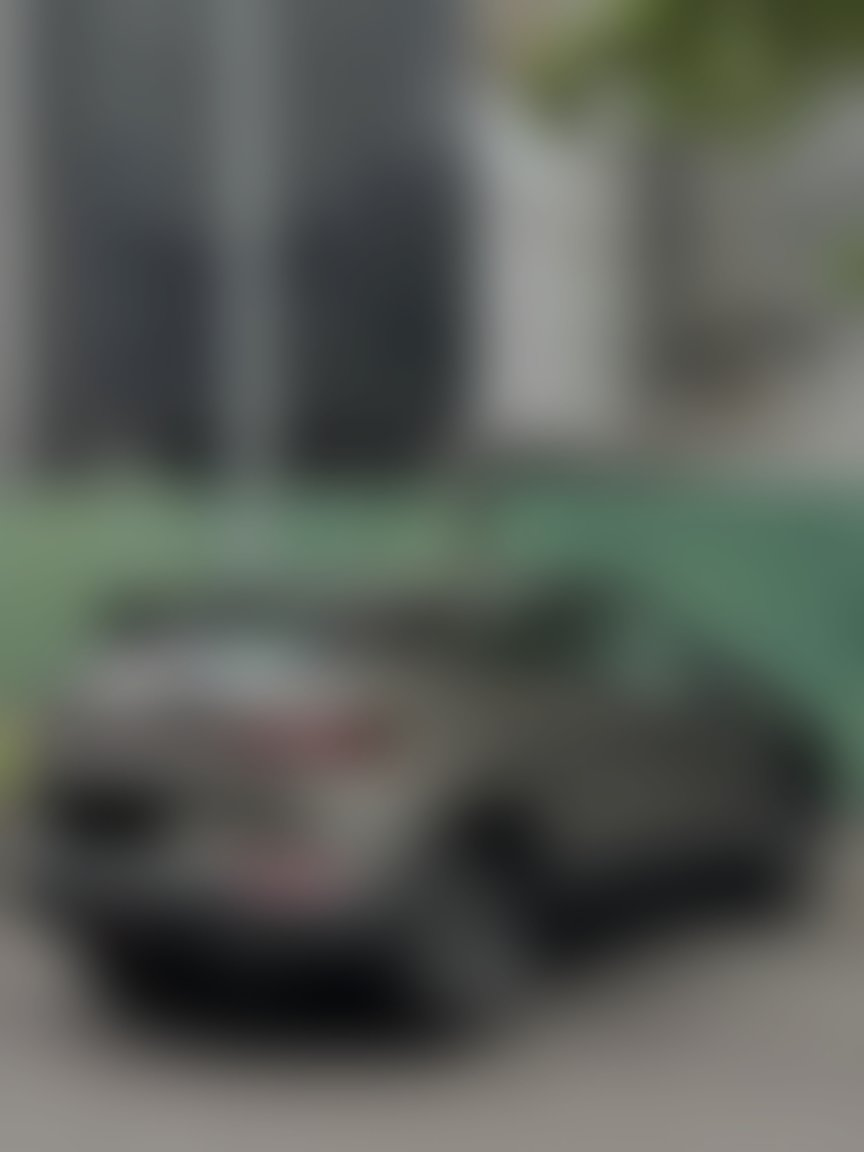
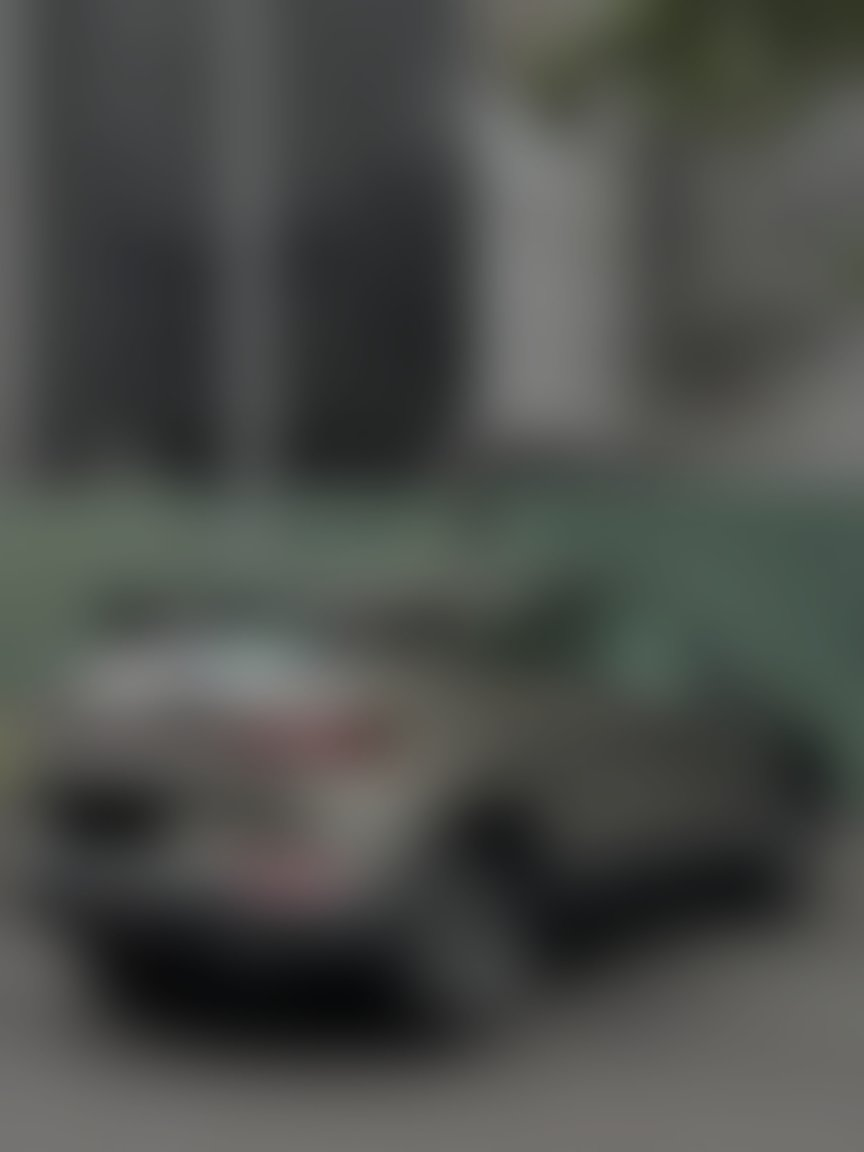
Pilihan soft_bg (kaburkan latar belakang gambar asal) dan latar showroom; X50 Jade Grey guna gambar asal
Claude-Session: https://claude.ai/code/session_012SdHq7PQ39aAs1VdyWCUGp

diff --git a/hyperframes/index.html b/hyperframes/index.html
@@ -116,6 +116,7 @@
       .cshadow { position: absolute; left: 40px; width: 920px; height: 80px;
                  background: radial-gradient(ellipse 50% 50% at 50% 50%, rgba(0,0,0,.75), rgba(0,0,0,0) 70%); }
       .sdim { position: absolute; inset: 0; background: #000; }
+      .ccontact { position: absolute; height: 36px; background: radial-gradient(ellipse 50% 50% at 50% 50%, rgba(0,0,0,.92), rgba(0,0,0,0) 75%); }
       .curl, .curr { position: absolute; top: 0; width: 541px; height: 1920px; background: linear-gradient(90deg, #07080b, #161922 85%, #232733); }
       .curl { left: 0; }
       .curr { right: 0; transform-origin: 100% 50%; background: linear-gradient(270deg, #07080b, #161922 85%, #232733); }
@@ -180,7 +181,7 @@
   </head>
   <body>
     <div id="root" data-composition-id="main" data-start="0" data-duration="80.593" data-width="1080" data-height="1920" data-fps="30" data-motion-blur="on">
-      <div id="s0" class="scene clip" data-start="0.000" data-duration="10.349" data-track-index="1" data-track-kind="graphics" style="z-index:10"><div id="s0cam" class="cam"><img id="s0bg" class="bg" src="assets/photos/bg_xg_03_depan34.jpg" alt="" /><div id="s0kb" class="kb"><img class="contain hi" src="assets/photos/xg_03_depan34.jpg" alt="" /></div><div id="s0stamp" class="stamp" data-layout-allow-occlusion style="top:600px;font-size:60px">WAJIB ADA DEPOSIT</div><div id="s0hnote" class="c2note hnote" data-layout-allow-occlusion style="top:770px"><b>Tiada deposit?</b><span>Tak perlu PM ya 🙏</span></div><div class="shade"></div><div class="heads"><div class="line hero"><span id="h0_0" class="pearl">SAMBUNG BAYAR</span></div><div class="line label"><span id="h0_1" class="silver">LEASE TO OWN</span></div><div class="line tag"><span id="h0_2" class="pearl">PROTON X50 EXECUTIVE</span></div></div></div></div>
+      <div id="s0" class="scene clip" data-start="0.000" data-duration="10.349" data-track-index="1" data-track-kind="graphics" style="z-index:10"><div id="s0cam" class="cam"><img id="s0bg" class="bg" src="assets/photos/bg_xg_03_depan34.jpg" alt="" /><div id="s0kb" class="kb"><img class="contain hi" src="assets/photos/xg_03_depan34.jpg" alt="" /></div><div id="s0stamp" class="stamp" data-layout-allow-occlusion style="top:560px;font-size:60px">WAJIB ADA DEPOSIT</div><div class="shade"></div><div class="heads"><div class="line hero"><span id="h0_0" class="pearl">SAMBUNG BAYAR</span></div><div class="line label"><span id="h0_1" class="silver">LEASE TO OWN</span></div><div class="line tag"><span id="h0_2" class="pearl">PROTON X50 EXECUTIVE</span></div></div></div></div>
       <div id="s1" class="scene clip" data-start="9.989" data-duration="8.316" data-track-index="2" data-track-kind="graphics" style="z-index:11"><div id="s1cam" class="cam"><img id="s1bg" class="bg" src="assets/photos/bg_xg_01_depan.jpg" alt="" /><div id="s1kb" class="kb"><img class="contain hi" src="assets/photos/xg_01_depan.jpg" alt="" /></div><div id="s1sw" class="sweep"></div><div class="shade"></div><div class="heads"><div class="line hero"><span id="h1_0" class="silver">X50 EXECUTIVE</span></div><div class="line label"><span id="h1_1" class="pearl">FACELIFT 2026</span></div><div class="line tag"><span id="h1_2" class="pearl">KOYAK PLASTIK</span></div></div></div></div>
       <div id="s2" class="scene clip" data-start="18.305" data-duration="5.265" data-track-index="1" data-track-kind="graphics" style="z-index:12"><div id="s2cam" class="cam"><img id="s2bg" class="bg" src="assets/photos/bg_xg_02_belakang34.jpg" alt="" /><div id="s2kb" class="kb"><img class="contain hi" src="assets/photos/xg_02_belakang34.jpg" alt="" /></div><div class="shade"></div><div class="heads"><div class="line label"><span id="h2_0" class="silver">DEPOSIT</span></div><div class="line price" style="margin:0 -100px"><span id="h2_1" class="red">RM13,000</span></div><div class="line tag"><span id="h2_2" class="pearl">BAWAH MARKET</span></div></div></div></div>
       <div id="s3" class="scene clip" data-start="23.210" data-duration="5.719" data-track-index="2" data-track-kind="graphics" style="z-index:13"><div id="s3cam" class="cam"><img id="s3bg" class="bg" src="assets/photos/bg_xg_04_belakang.jpg" alt="" /><div id="s3kb" class="kb"><img class="contain hi" src="assets/photos/xg_04_belakang.jpg" alt="" /></div><div class="shade"></div><div class="heads"><div class="line label"><span id="h3_0" class="silver">BULANAN</span></div><div class="line price"><span id="h3_1" class="red">RM1,300</span></div><div class="line tag"><span id="h3_2" class="pearl">LOAN 9 TAHUN</span></div></div></div></div>
@@ -291,7 +292,7 @@
               <div id="ct_meta" class="cmeta">Proton X50 Executive Facelift 2026</div>
             </div>
             <div id="ct_glint" class="glint"></div>
-          </div><div id="c2note" class="c2note"><b>WAJIB ADA DEPOSIT</b><span>Tiada deposit? Tak perlu PM ya 🙏</span></div>
+          </div>
         </div></div></div>
       <div id="captions" class="clip" data-start="0" data-duration="80.593" data-track-index="5" data-track-kind="captions" data-layout-allow-safe-zone style="z-index:40"><div id="c0" class="grp"><span id="c0p" class="pill"><span class="w ">Nak</span> <span class="w red">sambung</span> <span class="w red">bayar</span> <span class="w silver">Proton</span></span></div><div id="c1" class="grp"><span id="c1p" class="pill"><span class="w silver">X50</span> <span class="w silver">Executive,</span></span></div><div id="c2" class="grp"><span id="c2p" class="pill"><span class="w ">warna</span> <span class="w silver">Jade</span> <span class="w silver">Grey?</span></span></div><div id="c3" class="grp"><span id="c3p" class="pill"><span class="w ">Ingat</span> <span class="w ">ya,</span></span></div><div id="c4" class="grp"><span id="c4p" class="pill"><span class="w red">wajib</span> <span class="w red">ada</span> <span class="w red">deposit.</span></span></div><div id="c5" class="grp"><span id="c5p" class="pill"><span class="w ">Tiada</span> <span class="w ">deposit,</span></span></div><div id="c6" class="grp"><span id="c6p" class="pill"><span class="w ">tak</span> <span class="w ">perlu</span> <span class="w ">PM.</span></span></div><div id="c7" class="grp"><span id="c7p" class="pill"><span class="w silver">Proton</span> <span class="w silver">X50</span> <span class="w silver">Executive</span></span></div><div id="c8" class="grp"><span id="c8p" class="pill"><span class="w silver">Facelift,</span> <span class="w ">model</span> <span class="w red">2026.</span></span></div><div id="c9" class="grp"><span id="c9p" class="pill"><span class="w ">Kereta</span> <span class="w ">baru,</span></span></div><div id="c10" class="grp"><span id="c10p" class="pill"><span class="w ">jualan</span> <span class="w ">koyak</span> <span class="w ">plastik.</span></span></div><div id="c11" class="grp"><span id="c11p" class="pill"><span class="w red">Deposit?</span></span></div><div id="c12" class="grp"><span id="c12p" class="pill"><span class="w red">RM13,000</span> <span class="w ">sahaja.</span></span></div><div id="c13" class="grp"><span id="c13p" class="pill"><span class="w ">Ini</span> <span class="w red">bawah</span> <span class="w red">market.</span></span></div><div id="c14" class="grp"><span id="c14p" class="pill"><span class="w red">Bulanan</span> <span class="w ">pula,</span> <span class="w red">RM1,300.</span></span></div><div id="c15" class="grp"><span id="c15p" class="pill"><span class="w red">Loan</span> <span class="w red">9</span> <span class="w red">tahun.</span></span></div><div id="c16" class="grp"><span id="c16p" class="pill"><span class="w ">Lebih</span> <span class="w ">menarik,</span></span></div><div id="c17" class="grp"><span id="c17p" class="pill"><span class="w silver">agreement</span> <span class="w red">direct</span> <span class="w red">terus</span></span></div><div id="c18" class="grp"><span id="c18p" class="pill"><span class="w red">dengan</span> <span class="w red">owner.</span></span></div><div id="c19" class="grp"><span id="c19p" class="pill"><span class="w ">Insurans,</span> <span class="w ">roadtax</span></span></div><div id="c20" class="grp"><span id="c20p" class="pill"><span class="w ">baharu,</span> <span class="w red">plate</span> <span class="w red">V,</span></span></div><div id="c21" class="grp"><span id="c21p" class="pill"><span class="w ">siap</span> <span class="w red">warranty</span> <span class="w silver">Proton.</span></span></div><div id="c22" class="grp"><span id="c22p" class="pill"><span class="w ">Enjin</span> <span class="w red">1.5</span> <span class="w red">turbo,</span></span></div><div id="c23" class="grp"><span id="c23p" class="pill"><span class="w ">skrin</span> <span class="w ">besar,</span></span></div><div id="c24" class="grp"><span id="c24p" class="pill"><span class="w ">meter</span> <span class="w ">digital,</span></span></div><div id="c25" class="grp"><span id="c25p" class="pill"><span class="w ">siap</span> <span class="w ">kawalan</span> <span class="w ">suara</span> <span class="w silver">Hi</span></span></div><div id="c26" class="grp"><span id="c26p" class="pill"><span class="w silver">Proton.</span></span></div><div id="c27" class="grp"><span id="c27p" class="pill"><span class="w ">Tengoklah</span> <span class="w ">interior</span> <span class="w ">dia.</span></span></div><div id="c28" class="grp"><span id="c28p" class="pill"><span class="w ">Kemas,</span> <span class="w silver">selesa,</span></span></div><div id="c29" class="grp"><span id="c29p" class="pill"><span class="w ">belakang</span> <span class="w ">pun</span> <span class="w silver">luas,</span></span></div><div id="c30" class="grp"><span id="c30p" class="pill"><span class="w ">boot</span> <span class="w ">pun</span> <span class="w ">besar.</span></span></div><div id="c31" class="grp"><span id="c31p" class="pill"><span class="w ">Caranya</span> <span class="w ">senang.</span></span></div><div id="c32" class="grp"><span id="c32p" class="pill"><span class="w red">Semak</span> <span class="w ">dokumen,</span></span></div><div id="c33" class="grp"><span id="c33p" class="pill"><span class="w red">tandatangan</span> <span class="w ">perjanjian,</span></span></div><div id="c34" class="grp"><span id="c34p" class="pill"><span class="w red">bayar</span> <span class="w ">deposit,</span></span></div><div id="c35" class="grp"><span id="c35p" class="pill"><span class="w ">dan</span> <span class="w ">terus</span> <span class="w ">boleh</span> <span class="w red">bawa</span></span></div><div id="c36" class="grp"><span id="c36p" class="pill"><span class="w ">balik</span> <span class="w ">kereta!</span></span></div><div id="c37" class="grp cta-pos"><span id="c37p" class="pill"><span class="w ">Sediakan</span> <span class="w ">IC,</span></span></div><div id="c38" class="grp cta-pos"><span id="c38p" class="pill"><span class="w ">lesen</span> <span class="w ">dan</span> <span class="w ">bil</span> <span class="w ">air</span> <span class="w ">atau</span> <span class="w ">api.</span></span></div><div id="c39" class="grp cta-pos"><span id="c39p" class="pill"><span class="w red">Pastikan</span> <span class="w ">deposit</span> <span class="w ">dah</span></span></div><div id="c40" class="grp cta-pos"><span id="c40p" class="pill"><span class="w ">sedia</span> <span class="w ">ya,</span></span></div><div id="c41" class="grp cta-pos"><span id="c41p" class="pill"><span class="w ">tiada</span> <span class="w ">deposit</span> <span class="w ">tak</span> <span class="w ">perlu</span> <span class="w ">PM.</span></span></div><div id="c42" class="grp cta-pos"><span id="c42p" class="pill"><span class="w red">WhatsApp</span> <span class="w ">sekarang,</span></span></div><div id="c43" class="grp cta-pos"><span id="c43p" class="pill"><span class="w red">017-203</span> <span class="w red">6099.</span></span></div><div id="c44" class="grp cta-pos"><span id="c44p" class="pill"><span class="w ">Siapa</span> <span class="w ">cepat,</span></span></div><div id="c45" class="grp cta-pos"><span id="c45p" class="pill"><span class="w ">dia</span> <span class="w ">dapat!</span></span></div></div>
       <div id="bug" class="clip" data-start="0" data-duration="80.593" data-track-index="6" data-track-kind="graphics" data-layout-allow-safe-zone style="z-index:41"><span class="bar"></span><span class="bt">KL AUTO SB</span></div>
@@ -308,8 +309,6 @@
       tl.fromTo("#s0stamp",{opacity:0,scale:2.6,rotation:-18},{opacity:1,scale:1,rotation:-10,duration:0.22,ease:"power4.in"},5.655);
       tl.fromTo("#s0cam",{x:0,y:0},{x:10,y:-6,duration:0.05,ease:"none",yoyo:true,repeat:5},5.875);
       tl.set("#s0cam",{x:0,y:0},6.205);
-      tl.set("#s0hnote",{opacity:0},0);
-      tl.fromTo("#s0hnote",{opacity:0,y:30,scale:0.95},{opacity:1,y:0,scale:1,duration:0.45,ease:"back.out(1.6)"},6.774);
       tl.fromTo("#h0_0",{scale:1.08},{scale:1,duration:0.35,ease:"power3.out"},0);
       tl.fromTo("#s1kb",{scale:1.028,y:16},{...{scale:1.028,y:-16},duration:8.316,ease:"sine.inOut"},9.989);
       tl.fromTo("#s1bg",{scale:1.0},{scale:1.05,duration:8.316,ease:"none"},9.989);
@@ -457,7 +456,6 @@
       tl.fromTo("#ct_ring2",{scale:1,opacity:0.85},{scale:1.9,opacity:0,duration:0.9,ease:"power2.out"},73.762);
       tl.fromTo("#ct_meta",{opacity:0},{opacity:1,duration:0.5,ease:"power2.out"},74.412);
       tl.fromTo("#ct_glint",{x:-220},{x:1000,duration:0.8,ease:"power2.inOut"},75.012);
-      tl.fromTo("#c2note",{opacity:0,y:30,scale:0.95},{opacity:1,y:0,scale:1,duration:0.45,ease:"back.out(1.6)"},65.553);
       tl.fromTo("#s7cam",{scale:1,opacity:1},{scale:1.6,opacity:0,duration:0.4,ease:"power2.in"},62.342);
       tl.fromTo("#s8cam",{scale:1.18,opacity:0},{scale:1,opacity:1,duration:0.45,ease:"power2.out"},62.342);
       tl.set("#s7cam",{zIndex:2},62.342);

diff --git a/hyperframes/tools/build.py b/hyperframes/tools/build.py
@@ -45,12 +45,14 @@ AUD = ASSETS / "audio" / "hitam"
 PH = ASSETS / "photos"
 ZOOM_SOFT = False
 INTRO_SFX = True
+SHOWROOM = None
+SOFT_BG = set()
 PHOTO_SRC = ROOT / "photos"
 
 
 def configure(name):
     """Point the build at one video: its photos, audio folder, style and per-scene overrides."""
-    global VIDEO, STYLE, AUD, PHOTO_SRC, CUES, FIT_W, SCRIPT, CTA, ZOOM_SOFT, INTRO_SFX
+    global VIDEO, STYLE, AUD, PHOTO_SRC, CUES, FIT_W, SCRIPT, CTA, ZOOM_SOFT, INTRO_SFX, SHOWROOM, SOFT_BG
     v = VIDEOS[name] = load_video(name)
     if "script" in v:  # a different car: its own lines, headlines, moves and transitions
         SCRIPT = [dict(sc, photos=sc.get("photos", []), base_move=sc["move"], base_trans=sc.get("trans"),
@@ -59,6 +61,8 @@ def configure(name):
     VIDEO, STYLE, CUES, FIT_W = name, STYLES[v["style"]], v.get("cues"), set(v.get("fit_width", []))
     ZOOM_SOFT = v.get("zoom") == "soft"
     INTRO_SFX = v.get("intro_sfx", True)
+    SHOWROOM = v.get("showroom")
+    SOFT_BG = set(v.get("soft_bg", []))
     AUD = ASSETS / "audio" / name
     PHOTO_SRC = ROOT / "photos" / v["src"] if v["src"] else ROOT / "photos"
     custom = "script" in v
@@ -437,6 +441,23 @@ def extra_sfx(total, scenes):
 
 
 # --------------------------------------------------------------------- photos
+_REMBG = None
+
+
+def soften_background(im):
+    """Blur and slightly darken/desaturate everything except the car, using a rembg mask (feathered edge)."""
+    global _REMBG
+    from rembg import new_session, remove
+    _REMBG = _REMBG or new_session("isnet-general-use")
+    small = im.copy()
+    small.thumbnail((1600, 1600), Image.LANCZOS)
+    mask = remove(small, session=_REMBG, only_mask=True, post_process_mask=True).resize(im.size, Image.LANCZOS)
+    mask = mask.filter(ImageFilter.MaxFilter(5)).filter(ImageFilter.GaussianBlur(3))
+    blur = im.filter(ImageFilter.GaussianBlur(max(6, im.width // 220)))
+    blur = ImageEnhance.Color(ImageEnhance.Brightness(blur).enhance(0.8)).enhance(0.6)
+    return Image.composite(im, blur, mask)
+
+
 def make_photos():
     PH.mkdir(parents=True, exist_ok=True)
     for name in sorted({p for s in SCRIPT for p in s["photos"]}):
@@ -444,6 +465,8 @@ def make_photos():
         im = ImageEnhance.Contrast(im).enhance(1.05)
         if STYLE["photo_bright"] != 1.0:
             im = ImageEnhance.Brightness(im).enhance(STYLE["photo_bright"])
+        if name in SOFT_BG:  # soften the scene behind the car (depth-of-field look); car pixels stay untouched
+            im = soften_background(im)
         fg = im.copy()
         fg.thumbnail((2400, 2400), Image.LANCZOS)
         fg.save(PH / name, quality=90)
@@ -463,6 +486,10 @@ def make_cutouts():
                 need.add(sc[k])
         for name, _, _ in sc.get("studio_trio", []):
             need.add(name)
+        if SHOWROOM:
+            for k in ("showroom_car", "hook_curtain"):
+                if sc.get(k):
+                    need.add(sc[k])
     if not need:
         return
     from rembg import new_session, remove
@@ -532,6 +559,25 @@ PRE = {"whip-left": 0.18, "whip-up": 0.18, "zoom": 0.2, "flash": 0.0, "dip": 0.0
 POST = {"whip-left": 0.18, "whip-up": 0.18, "zoom": 0.2, "flash": 0.0, "dip": 0.0, "leak": 0.35, None: 0.0}
 
 
+def showroom_plate(i, cfg, name, inner):
+    """Real car (rembg cutout, pixels untouched) standing on the video's showroom backdrop, with shadow and floor reflection."""
+    cp = cut_path(name)
+    cw, ch = Image.open(HF / cp).size
+    w = cfg.get("car_w", 960)
+    h = int(w * ch / cw)
+    if h > 640:  # tall shots (front/rear on) are scaled down so the car keeps a sensible size
+        h = 640
+        w = int(h * cw / ch)
+    floor = cfg.get("car_floor", 1360)
+    inner.append(f'<img id="s{i}bg" class="bg" src="{SHOWROOM}" alt="" />')
+    inner.append(f'<div id="s{i}kb" class="kb"><div id="s{i}car" class="scar" style="left:{(1080 - w) // 2}px;width:{w}px;top:{floor - h}px;height:{h * 2}px">'
+                 f'<div class="cshadow" style="left:{w * 0.02:.0f}px;width:{w * 0.96:.0f}px;top:{h - 50}px;height:110px"></div>'
+                 f'<div class="ccontact" style="left:{w * 0.08:.0f}px;width:{w * 0.84:.0f}px;top:{h - 22}px"></div>'
+                 f'<img class="cimg" src="{cp}" style="width:{w}px;height:{h}px" alt="" />'
+                 f'<img class="crefl" src="{cp}" style="width:{w}px;top:{h}px;height:{h}px" alt="" /></div></div>'
+                 f'<div id="s{i}ssw" class="ssweep"></div>')
+
+
 def make_html(scenes, total):
     body, js = [], []
     J = js.append
@@ -545,8 +591,12 @@ def make_html(scenes, total):
         inner = []
         if cfg.get("hook_curtain"):  # hook: dark curtains part to reveal the real (uncropped) photo, then a stamp slams on
             ph = cfg["hook_curtain"]
-            inner.append(f'<img id="s{i}bg" class="bg" src="assets/photos/bg_{ph}" alt="" />')
-            inner.append(f'<div id="s{i}kb" class="kb"><img class="contain hi" src="assets/photos/{ph}" alt="" /></div>')
+            if SHOWROOM:
+                showroom_plate(i, cfg, ph, inner)
+                J(f'tl.fromTo("#s{i}ssw",{{x:-1300}},{{x:1300,duration:1.2,ease:"power1.inOut"}},0.9);')
+            else:
+                inner.append(f'<img id="s{i}bg" class="bg" src="assets/photos/bg_{ph}" alt="" />')
+                inner.append(f'<div id="s{i}kb" class="kb"><img class="contain hi" src="assets/photos/{ph}" alt="" /></div>')
             if cfg.get("curtain", True):
                 inner.append(f'<div id="s{i}cl" class="curl"></div><div id="s{i}cr" class="curr"></div><div id="s{i}cln" class="curline"></div>')
             st_txt, st_cue = cfg.get("stamp", ["1 UNIT SAHAJA", "sahaja"])
@@ -569,6 +619,13 @@ def make_html(scenes, total):
                 tn = max(ts + 0.6, wt.get(hn[2].lower(), ts + 1.0))
                 J(f'tl.set("#s{i}hnote",{{opacity:0}},0);')
                 J(f'tl.fromTo("#s{i}hnote",{{opacity:0,y:30,scale:0.95}},{{opacity:1,y:0,scale:1,duration:0.45,ease:"back.out(1.6)"}},{tn - 0.05:.3f});')
+        elif SHOWROOM and cfg.get("showroom_car"):  # exterior shot rebuilt on the showroom: car glides in, slow push, light sweep
+            showroom_plate(i, cfg, cfg["showroom_car"], inner)
+            b0 = s["start"]
+            J(f'tl.fromTo("#s{i}car",{{x:300,opacity:0}},{{x:0,opacity:1,duration:0.8,ease:"power3.out"}},{b0 + 0.05:.3f});')
+            J(f'tl.fromTo("#s{i}kb",{{scale:1}},{{scale:1.04,duration:{max(1.0, s["end"] - b0):.3f},ease:"none"}},{b0:.3f});')
+            J(f'tl.fromTo("#s{i}bg",{{scale:1.04}},{{scale:1,duration:{max(1.0, s["end"] - b0):.3f},ease:"none"}},{b0:.3f});')
+            J(f'tl.fromTo("#s{i}ssw",{{x:-1300}},{{x:1300,duration:1.2,ease:"power1.inOut"}},{b0 + 0.9:.3f});')
         elif cfg.get("hook_card"):  # hook: the real photo, uncropped, as a framed print that lands on its own blurred backdrop
             ph = cfg["hook_card"]
             iw, ih = Image.open(PH / ph).size
@@ -1291,6 +1348,7 @@ TEMPLATE = r"""<!doctype html>
       .cshadow { position: absolute; left: 40px; width: 920px; height: 80px;
                  background: radial-gradient(ellipse 50% 50% at 50% 50%, rgba(0,0,0,.75), rgba(0,0,0,0) 70%); }
       .sdim { position: absolute; inset: 0; background: #000; }
+      .ccontact { position: absolute; height: 36px; background: radial-gradient(ellipse 50% 50% at 50% 50%, rgba(0,0,0,.92), rgba(0,0,0,0) 75%); }
       .curl, .curr { position: absolute; top: 0; width: 541px; height: 1920px; background: linear-gradient(90deg, #07080b, #161922 85%, #232733); }
       .curl { left: 0; }
       .curr { right: 0; transform-origin: 100% 50%; background: linear-gradient(270deg, #07080b, #161922 85%, #232733); }
